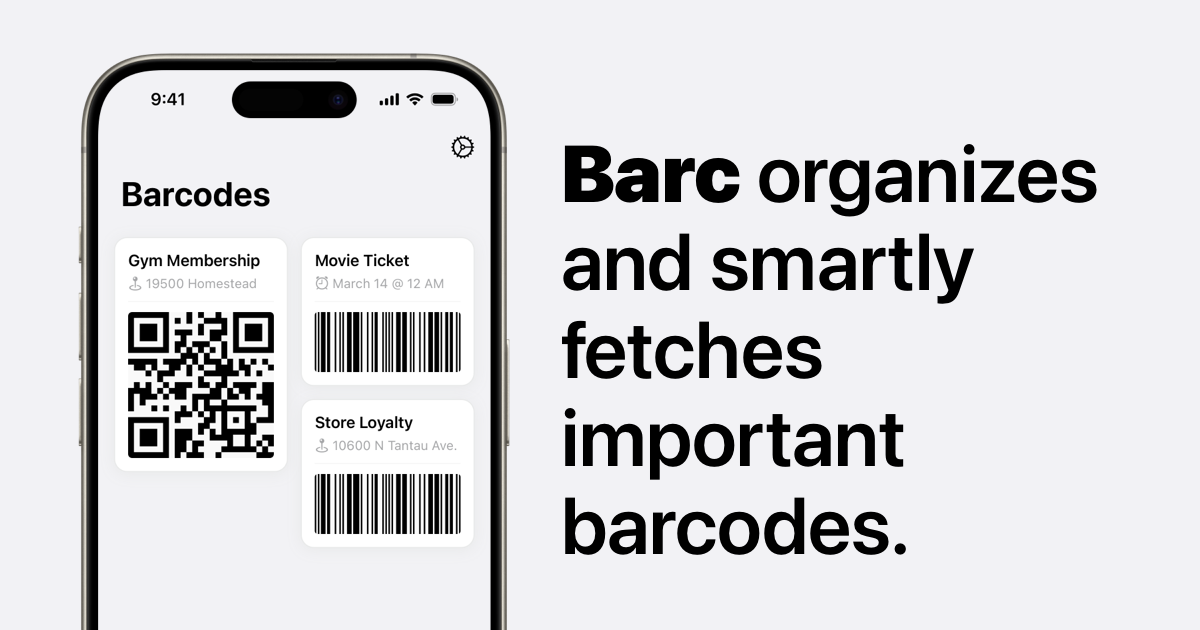
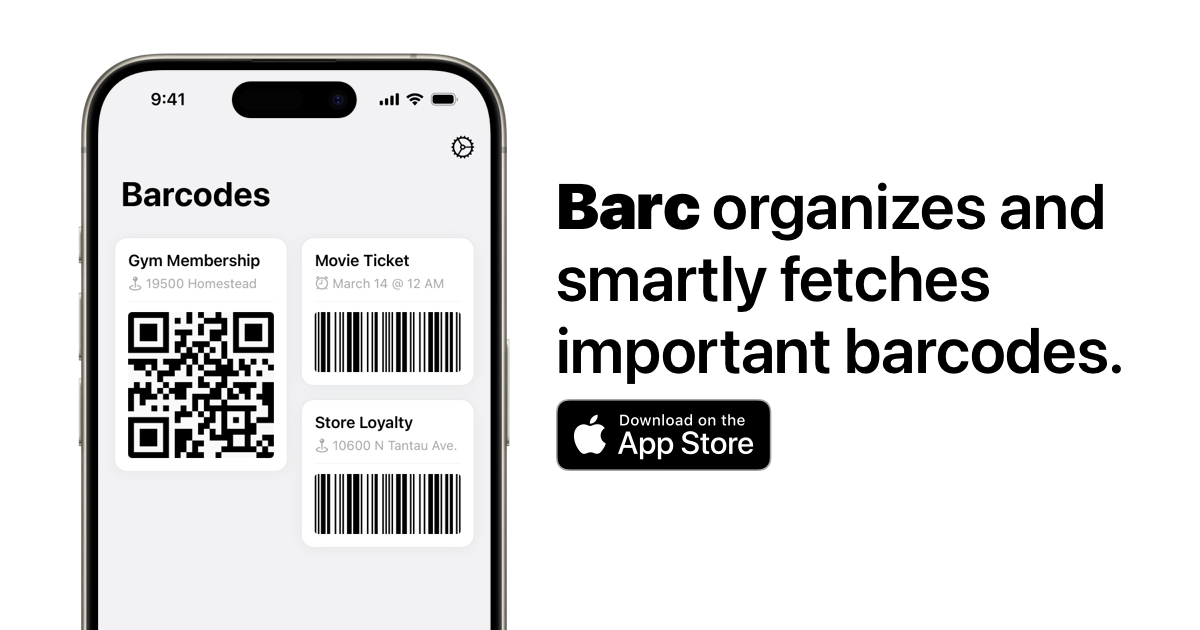
Replace beta form with download link

Changed region(s): [[0.4625, 0.2111, 0.9558, 0.6032], [0.4625, 0.6333, 0.7708, 0.754], [0.4625, 0.7841, 0.7708, 0.9048]]

diff --git a/content/_index.html b/content/_index.html
@@ -5,19 +5,17 @@
   <img class="app-icon" src="/images/landing/icon.svg" alt="The Barc app icon. It is the shape of a dog's head, with a barcode inscribed inside."/>
   <h1>Barc organizes and smartly fetches important barcodes.</h1>
   <p>Concert tickets, loyalty cards, and gym memberships. Barc has them when you need them.</p>
-  <p>Coming soon.</p>
-
-  <form
-    action="https://buttondown.com/api/emails/embed-subscribe/cocoatype"
-    method="post"
-    target="popupwindow"
-    onsubmit="window.open('https://buttondown.com/cocoatype', 'popupwindow')"
-    class="embeddable-buttondown-form"
-    aria-label="Beta Sign-up"
-    >
-    <input type="email" name="email" id="bd-email" placeholder="hello@cocoatype.com"/>  
-    <input type="submit" value="Request Early Access"/>
-  </form>
+  <a href="/appstore/">
+  <picture>
+    <source
+      media="(prefers-color-scheme: dark)"
+      srcset="/images/apple/app-store-dark.svg">
+    <source
+      media="(prefers-color-scheme: light)"
+      srcset="/images/apple/app-store.svg">
+    <img class="app-store" src="/images/apple/app-store.svg" alt="Download on the App Store."/>
+  </picture>
+  </a>
 </header>
 
 <section class="features" aria-label="Features">

diff --git a/themes/barc/assets/css/_sass/landing.scss b/themes/barc/assets/css/_sass/landing.scss
@@ -29,6 +29,12 @@ header.hero {
         }
     }
 
+picture {
+    img.app-store {
+        height: 4rem;
+    }
+}
+
     h1 {
         font-size: $title3;
 
